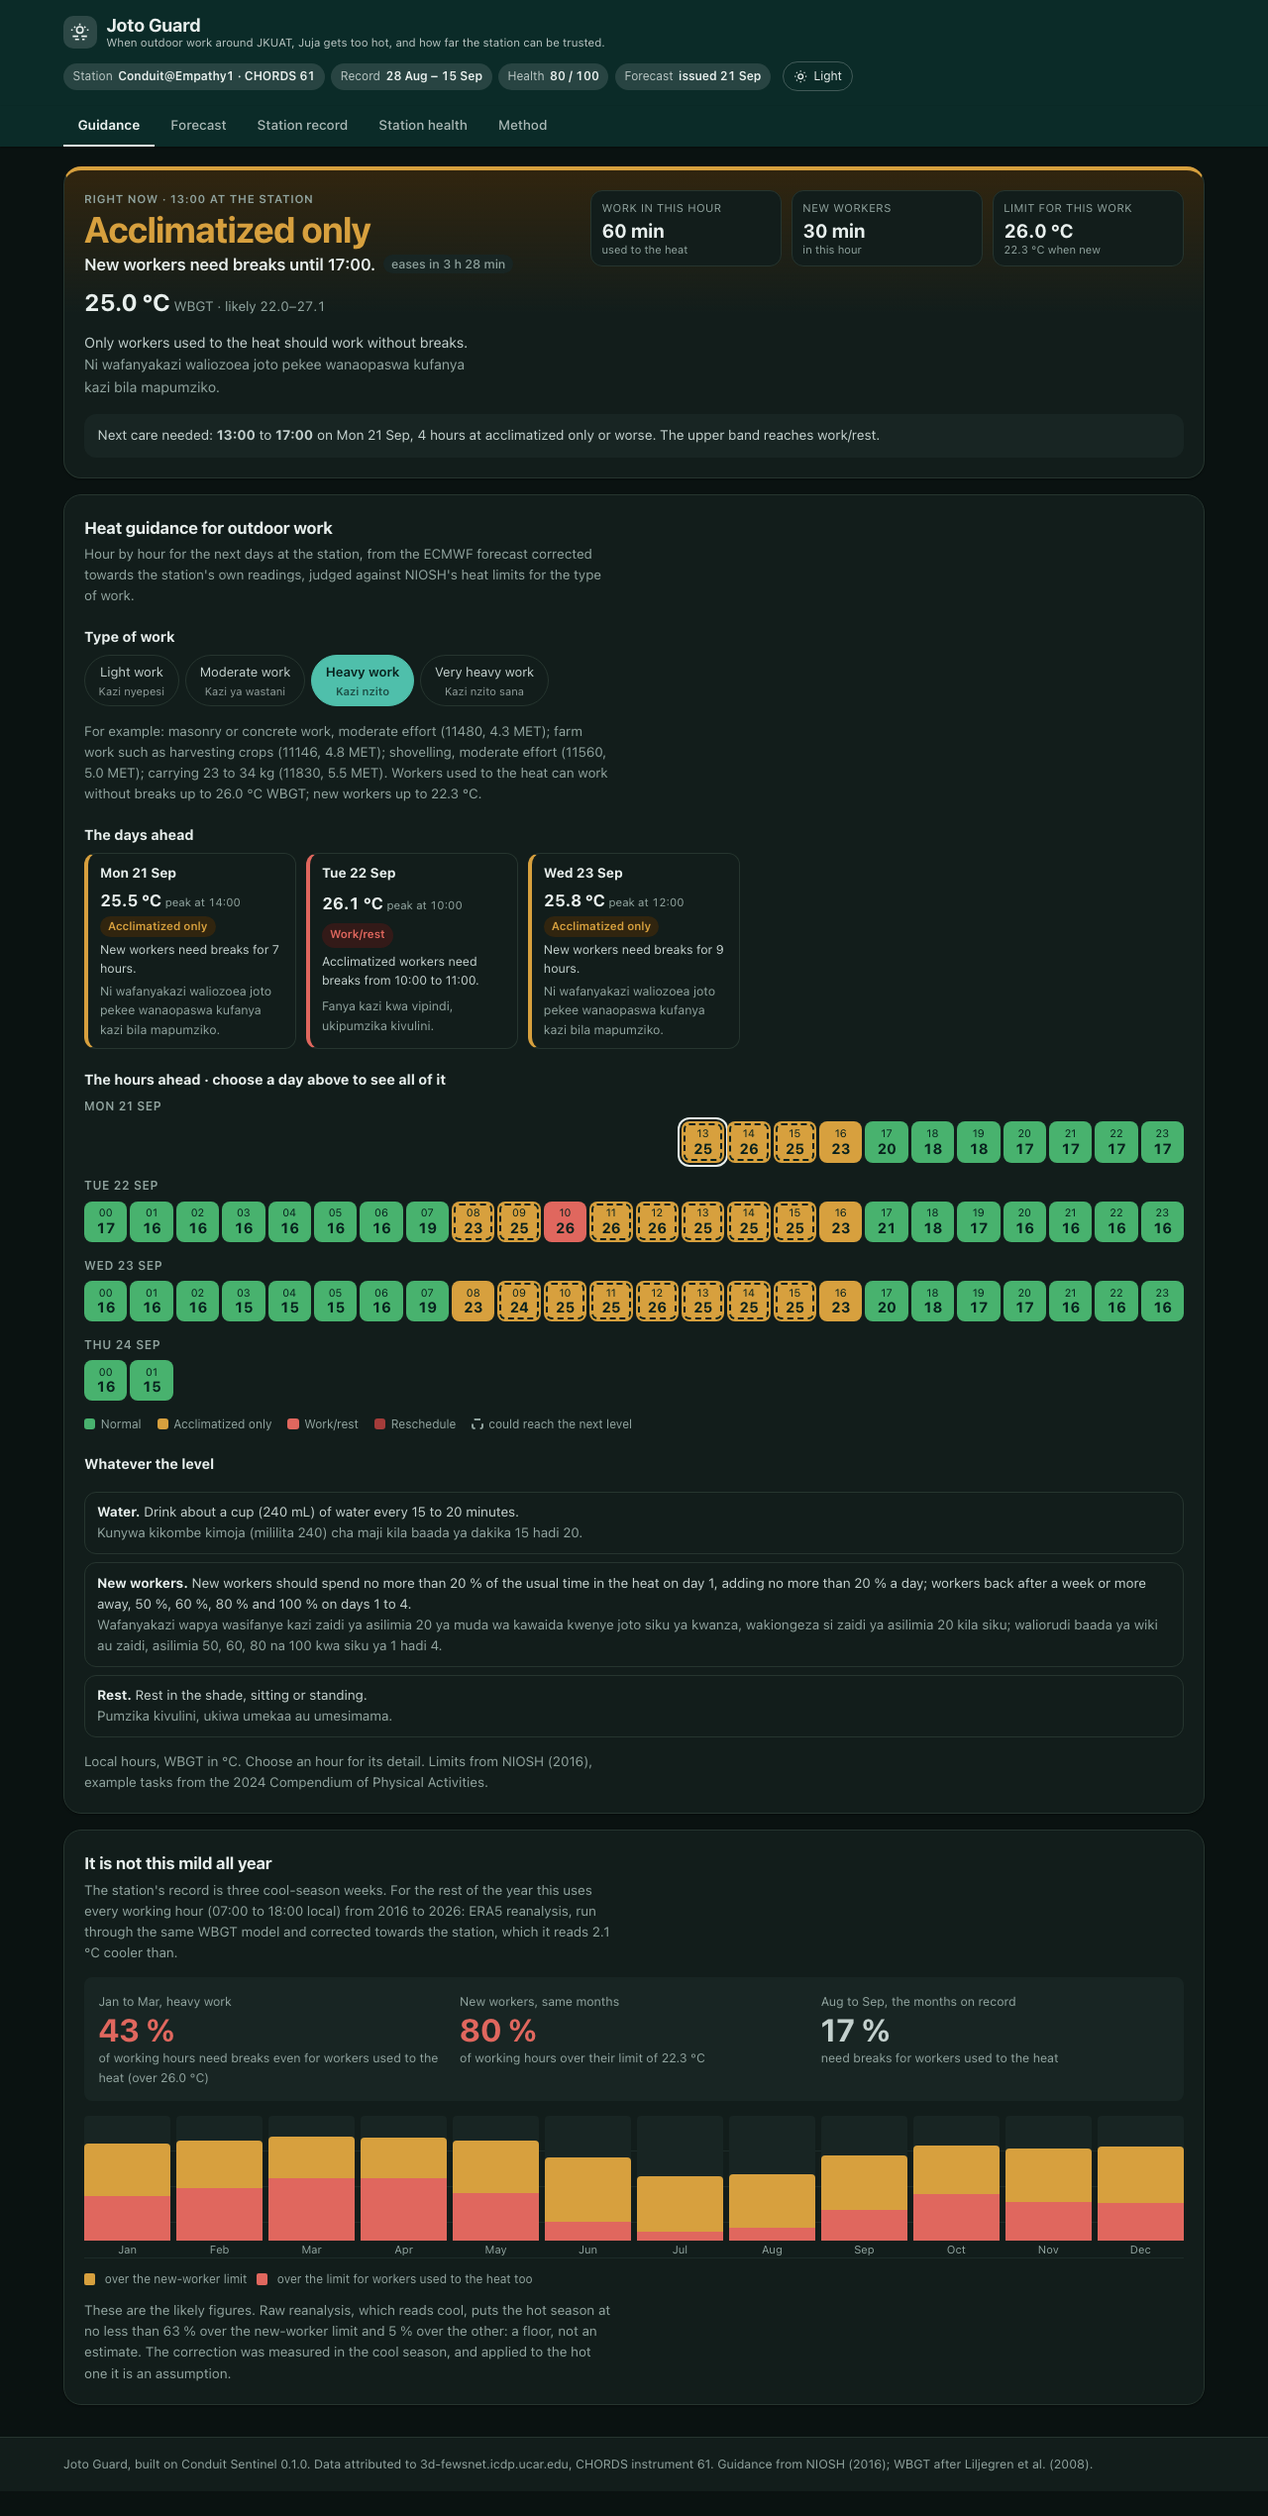
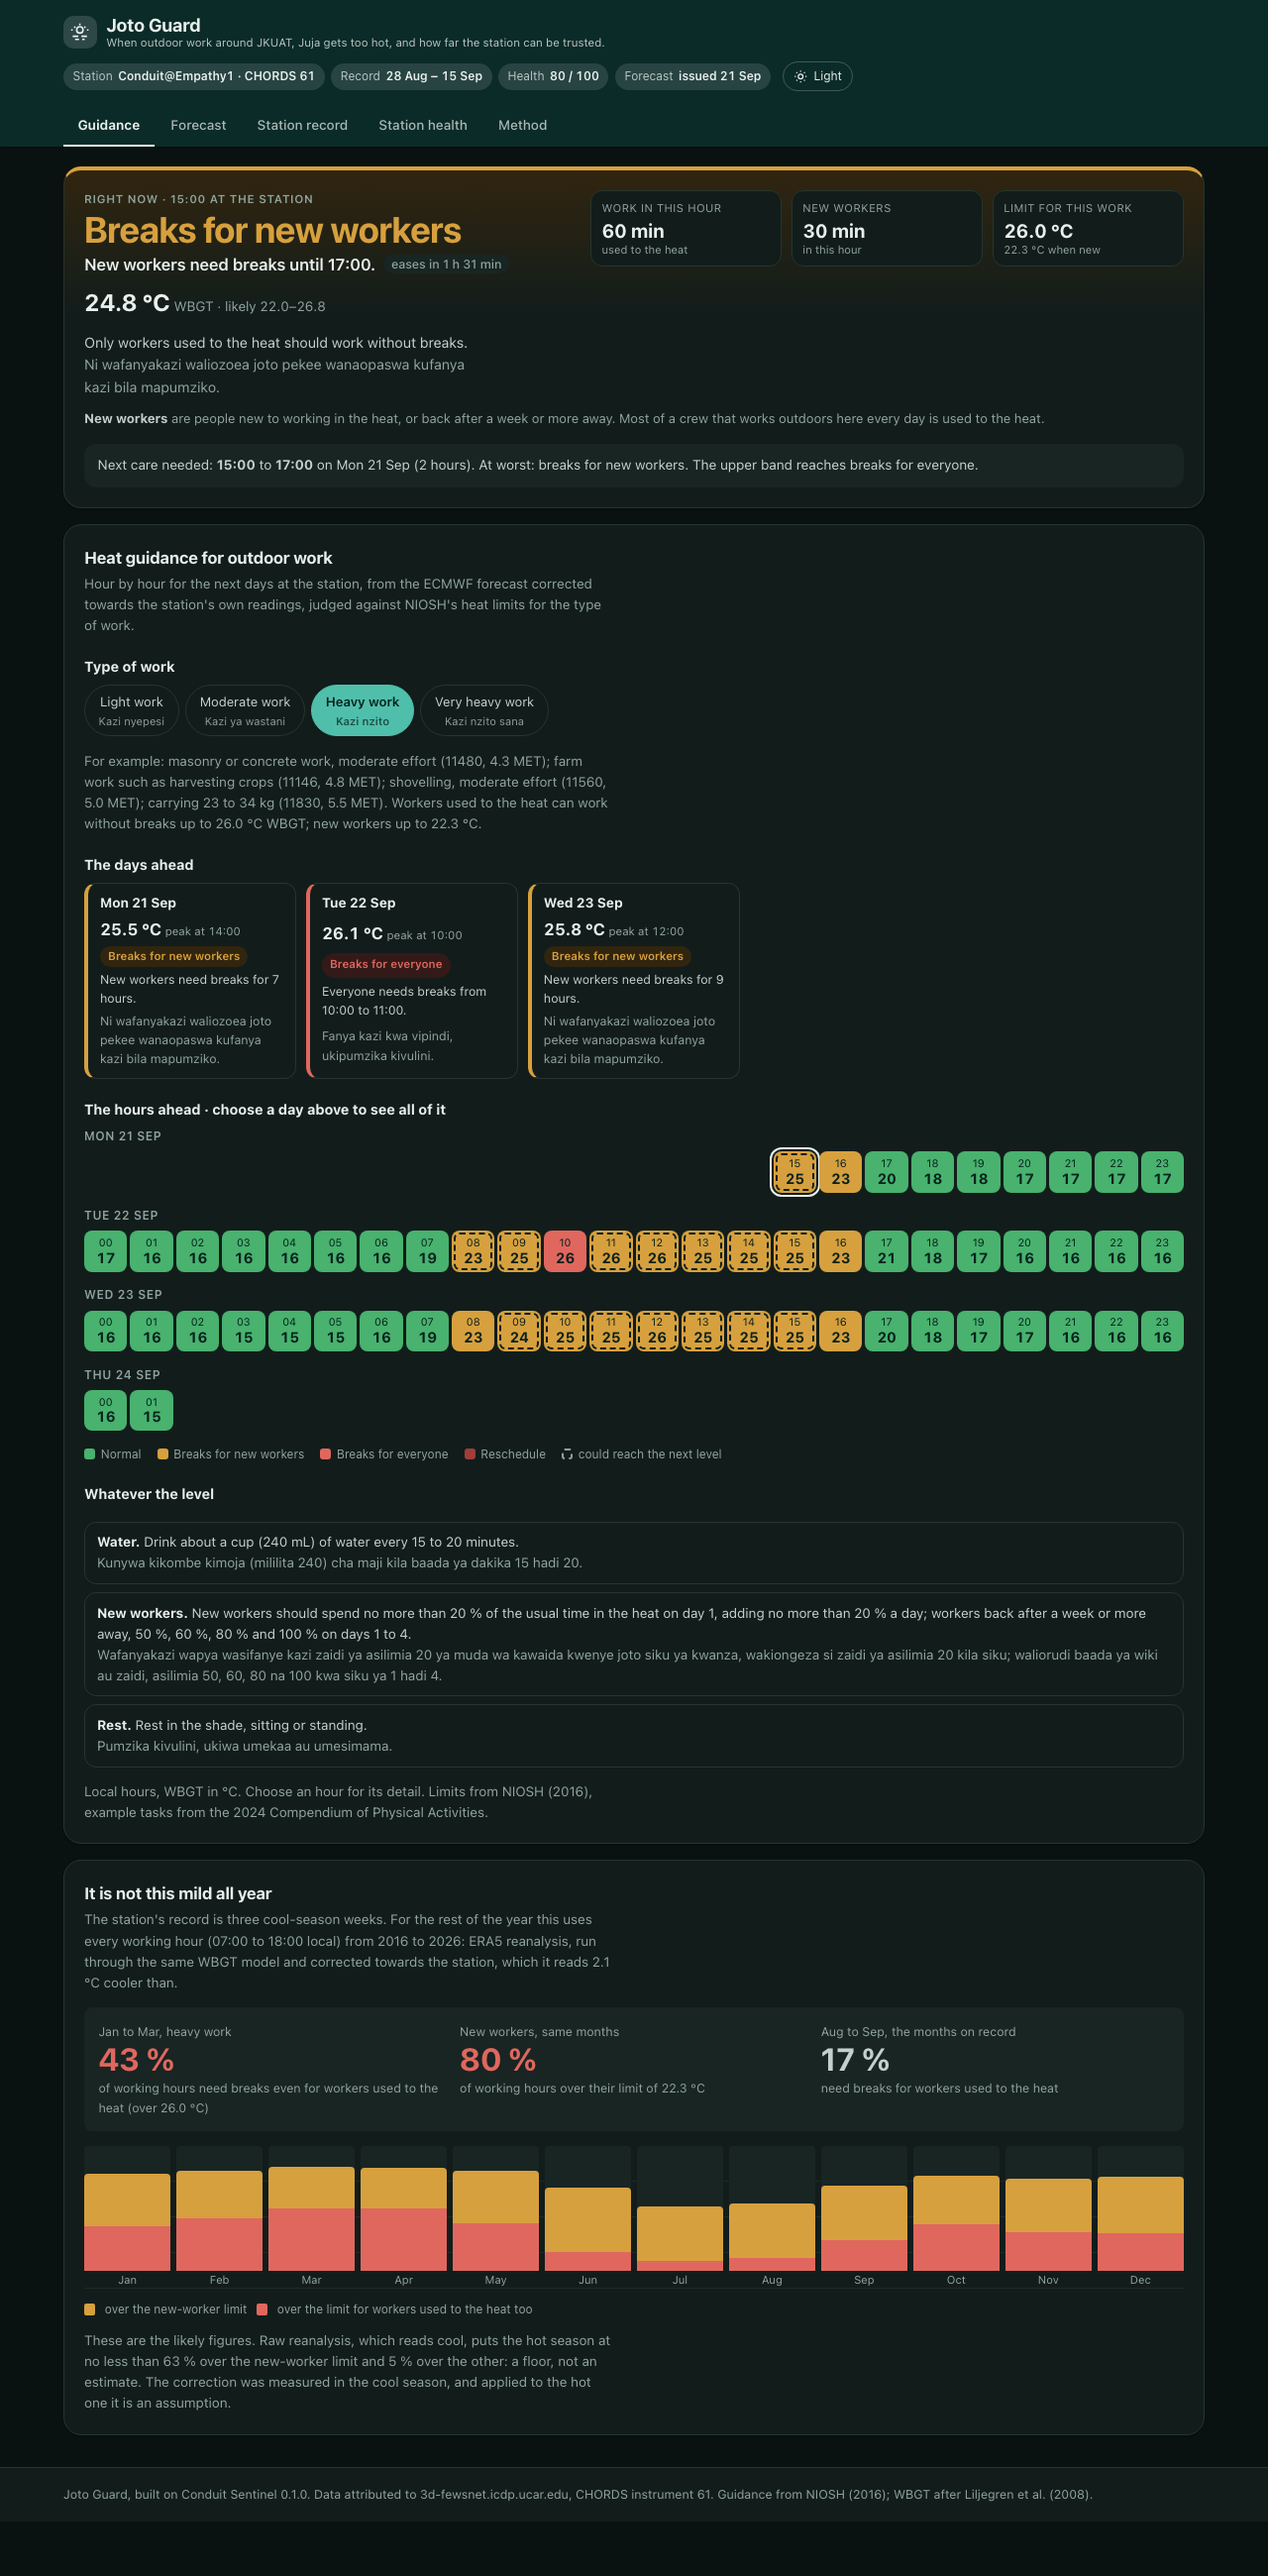
Say everyone needs breaks where the badge says so, and retake the figure

diff --git a/web/src/components/HeatGuidance.jsx b/web/src/components/HeatGuidance.jsx
@@ -49,7 +49,7 @@ function DaySummary({ day, workType, swahili, past, selected, onSelect }) {
 
   let advice = "No limit reached.";
   if (summary.limited_from) {
-    advice = `Acclimatized workers need breaks from ${summary.limited_from} to ${summary.limited_until}.`;
+    advice = `Everyone needs breaks from ${summary.limited_from} to ${summary.limited_until}.`;
   } else if (summary.hours_acclimatized_only > 0) {
     advice = `New workers need breaks for ${summary.hours_acclimatized_only} hour${
       summary.hours_acclimatized_only === 1 ? "" : "s"
